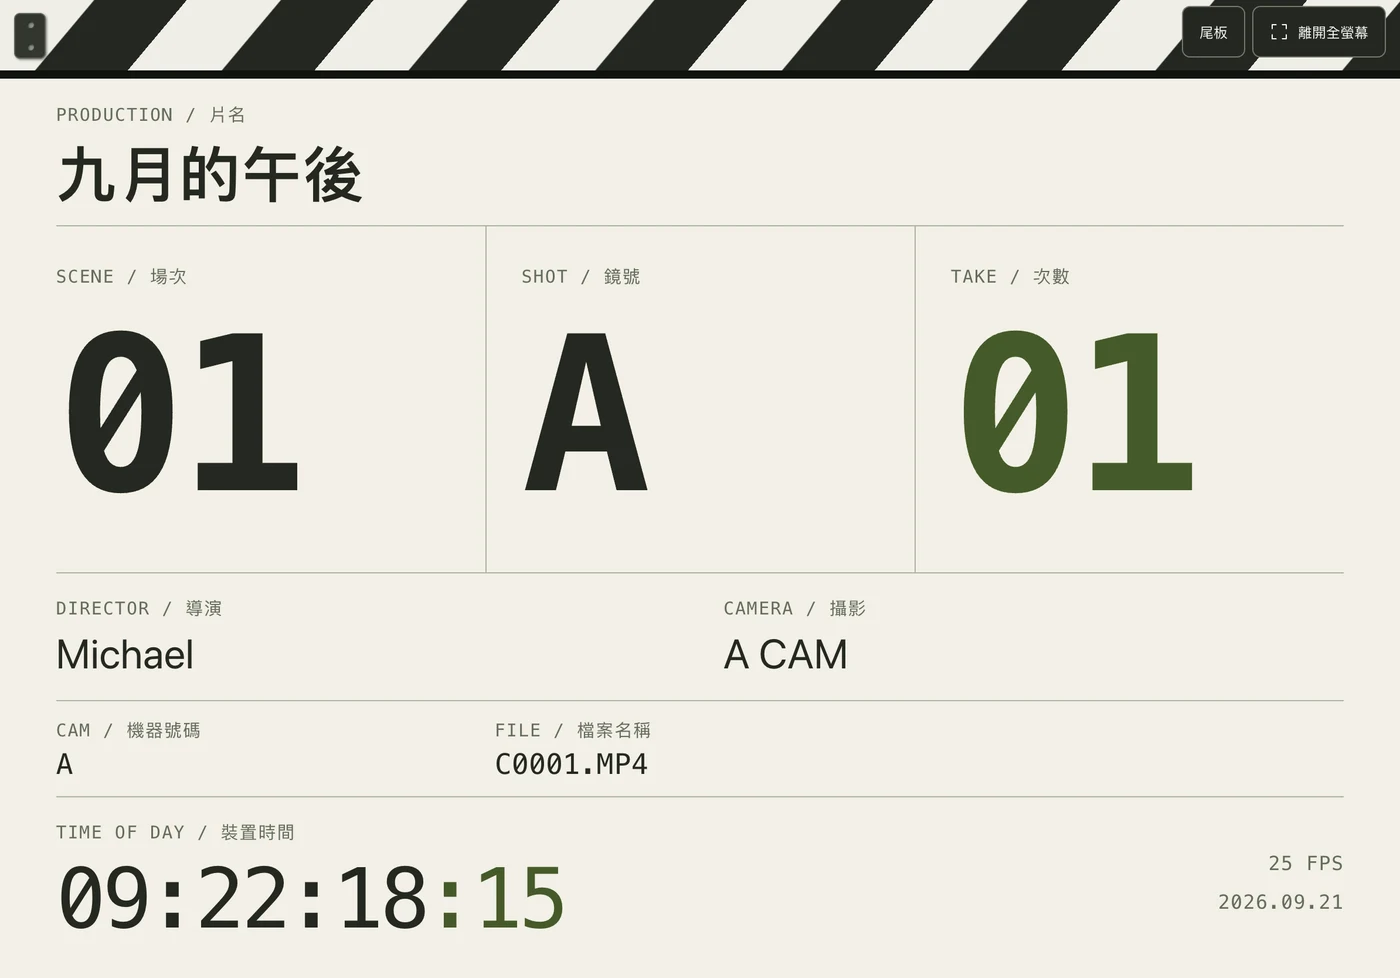
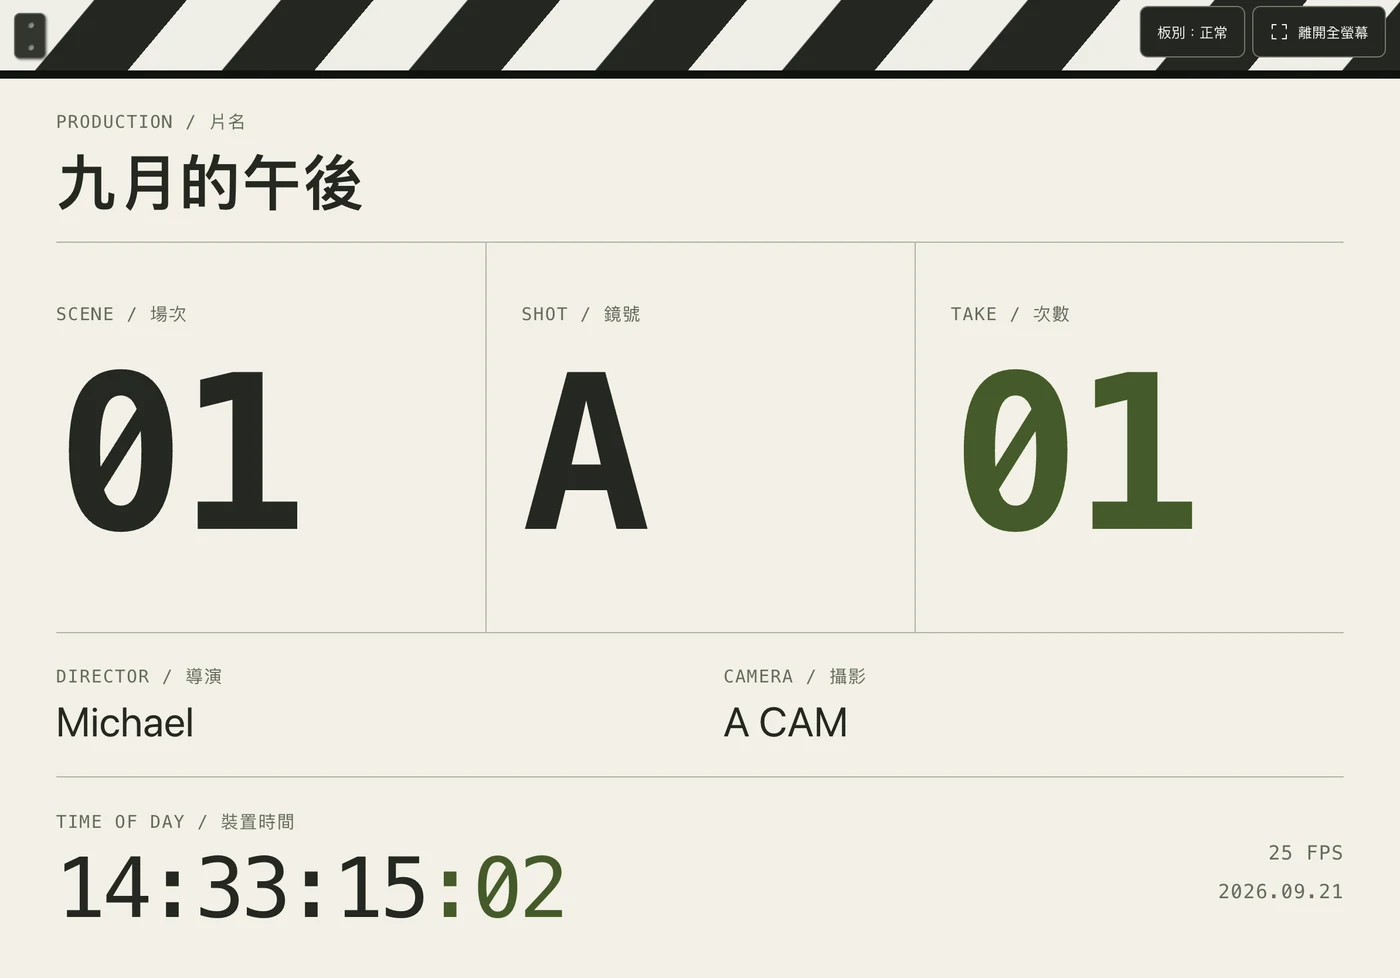
Simplify digital slate to normal and tail modes

diff --git a/themes/butterfly/source/sideProject/digitalSlate/index.html b/themes/butterfly/source/sideProject/digitalSlate/index.html
@@ -40,14 +40,13 @@
       <p id="storage-warning" class="warning" role="alert" hidden></p>
       <div class="workspace">
         <section class="slate-section" aria-label="場記板">
-          <div class="section-heading"><h2><span class="tiny-dot"></span>場記板 </h2><div class="board-toolbar"><button id="tail-toggle" class="subtle" aria-pressed="false">尾板</button><button id="focus-toggle" class="subtle" aria-pressed="false"><svg><use href="#i-expand"/></svg><span>專注模式</span></button></div></div>
+          <div class="section-heading"><h2><span class="tiny-dot"></span>場記板 </h2><div class="board-toolbar"><button id="tail-toggle" class="subtle" aria-pressed="false">板別：正常</button><button id="focus-toggle" class="subtle" aria-pressed="false"><svg><use href="#i-expand"/></svg><span>專注模式</span></button></div></div>
           <div class="slate-frame" id="slate-frame">
             <button class="clapper" id="clapper" aria-label="打板並儲存紀錄"><span class="clapper-hinge"><i></i><i></i></span><span class="clapper-caption">點此打板</span></button>
             <div class="slate-board">
               <div class="board-production"><span class="board-label">PRODUCTION / 片名</span><div id="board-production" class="production-name">未命名製作</div></div>
               <div class="board-numbers"><div><span class="board-label">SCENE / 場次</span><strong id="board-scene">01</strong></div><div><span class="board-label">SHOT / 鏡號</span><strong id="board-shot">A</strong></div><div class="take-cell"><span class="board-label">TAKE / 次數</span><strong id="board-take">01</strong></div></div>
               <div class="board-crew"><div><span class="board-label">DIRECTOR / 導演</span><span id="board-director">—</span></div><div><span class="board-label">CAMERA / 攝影</span><span id="board-camera">—</span></div></div>
-              <div class="board-media"><div><span class="board-label">CAM / 機器號碼</span><span id="board-cameraId">—</span></div><div><span class="board-label">FILE / 檔案名稱</span><span id="board-fileName">—</span></div><span id="board-tail-badge" class="tail-badge" hidden>尾板 / TAIL</span></div>
               <div class="board-bottom"><div class="timecode-wrap"><span class="board-label">TIME OF DAY / 裝置時間</span><span class="timecode" id="timecode">00:00:00<span>:00</span></span></div><div class="board-specs"><span id="board-fps">25 FPS</span><span id="board-date"></span></div></div>
               <div id="clap-overlay" class="clap-overlay" aria-hidden="true" hidden><span id="clap-overlay-text"></span></div>
             </div>
@@ -64,9 +63,7 @@
               <div class="form-row three"><label class="field">場次<input name="scene" id="scene" maxlength="12" value="01"></label><label class="field">鏡號<input name="shot" id="shot" maxlength="12" value="A"></label><label class="field">Take<input name="take" id="take" type="number" min="1" max="9999" step="1" value="1" inputmode="numeric" required></label></div>
               <div class="form-row"><label class="field">導演<input name="director" id="director" maxlength="60" placeholder="導演姓名"></label><label class="field">攝影<input name="camera" id="camera" maxlength="60" placeholder="攝影 / 機位"></label></div>
               <div class="form-row"><label class="field">影格率<select name="fps" id="fps"><option value="24">24 fps</option><option value="25" selected>25 fps</option><option value="30">30 fps</option><option value="50">50 fps</option><option value="60">60 fps</option></select></label><label class="field">打板倒數<select id="countdown"><option value="0">立即打板</option><option value="3">3 秒</option><option value="5">5 秒</option></select></label></div>
-              <div class="form-row media-fields"><label class="field">機器號碼<input name="cameraId" id="cameraId" list="camera-id-options" maxlength="30" placeholder="選擇或輸入"></label><label class="field">檔案名稱<input name="fileName" id="fileName" list="file-name-options" maxlength="180" placeholder="例如 C0001.MP4"></label></div>
-              <label class="switch-row tail-field"><span>尾板（旋轉 180°）</span><input id="isTail" name="isTail" type="checkbox" role="switch"><span class="switch-track" aria-hidden="true"></span></label>
-              <details class="camera-details"><summary>相機與拍攝參數</summary><div id="camera-settings" class="camera-parameter-grid"></div></details>
+              <label class="field slate-type-field">板別<select id="isTail" name="isTail"><option value="normal">正常</option><option value="tail">尾板（旋轉 180°）</option></select></label>
               <label class="field notes-field">備註<textarea name="notes" id="notes" maxlength="2000" rows="2" placeholder="台詞、動作或收音備註"></textarea></label>
               <div class="appearance-settings">
                 <fieldset class="color-picker"><legend>場記板顏色</legend><div class="color-options">
@@ -86,30 +83,19 @@
 
       <section class="records-section" aria-labelledby="records-heading">
         <div class="records-heading"><div><h2 id="records-heading">拍攝紀錄 <span class="record-count" id="record-count">0</span></h2></div><div class="record-actions"><button id="clear-records" class="subtle danger-text">清除全部</button><button id="import-json" class="subtle">匯入備份</button><input id="import-file" type="file" accept="application/json,.json" hidden><button id="export-json" class="subtle">備份 JSON</button><button id="export-csv" class="secondary"><svg><use href="#i-download"/></svg>匯出 CSV</button></div></div>
-        <div class="record-filters" id="record-filters" hidden>
-          <label>機器號碼<select id="filter-camera"><option value="">全部機器</option></select></label>
-          <label>檔案名稱<input id="filter-file" type="search" placeholder="搜尋檔案名稱"></label>
-          <label>板別<select id="filter-slate"><option value="all">全部</option><option value="head">頭板</option><option value="tail">尾板</option></select></label>
-          <span id="filtered-count" class="muted"></span>
-        </div>
+        <div class="record-filters" id="record-filters" hidden><label>板別<select id="filter-slate"><option value="all">全部</option><option value="normal">正常</option><option value="tail">尾板</option></select></label><span id="filtered-count" class="muted"></span></div>
         <p id="no-matching-records" class="muted" hidden>沒有符合條件的紀錄。</p>
         <div id="empty-state" class="empty-state"><span class="empty-icon"><svg><use href="#i-slate"/></svg></span><div><h3>尚無紀錄</h3><p>打板後會顯示在這裡。</p></div></div>
-        <div id="records-table-wrap" class="records-table-wrap" hidden><table><thead><tr><th>時間</th><th>製作 / 場次 / 鏡號</th><th>TAKE</th><th>機器號碼 / 檔案名稱</th><th>頭板 / 尾板</th><th>評記</th><th>備註</th><th><span class="sr-only">編輯</span></th></tr></thead><tbody id="records-list"></tbody></table></div>
+        <div id="records-table-wrap" class="records-table-wrap" hidden><table><thead><tr><th>時間</th><th>製作 / 場次 / 鏡號</th><th>TAKE</th><th>板別</th><th>評記</th><th>備註</th><th><span class="sr-only">編輯</span></th></tr></thead><tbody id="records-list"></tbody></table></div>
       </section>
     </main>
     <footer><span>SLATE <span class="footer-slash">/</span> 數位場記板</span><span>紀錄保存在此瀏覽器，拍攝後記得匯出備份。<a href="/">Michaelpig's side projects ↗</a></span></footer>
   </div>
 
-  <dialog id="help-dialog" aria-labelledby="help-title"><div class="dialog-heading"><span class="eyebrow">使用說明</span><button class="icon-button" data-close aria-label="關閉使用說明"><svg><use href="#i-close"/></svg></button></div><h2 id="help-title">在 iPad 上安裝</h2><ol class="help-steps"><li><strong>用 Safari 開啟此頁面</strong><span>第一次請保持連線，等上方顯示「可離線使用」。</span></li><li><strong>分享 → 加入主畫面</strong><span>若看到「作為網頁 App 打開」，請保持開啟，再點「加入」。</span></li><li><strong>從主畫面開啟</strong><span>先連線開啟一次，確認離線就緒並試聽音效，再開始拍攝。</span></li></ol><div class="help-note"><strong>使用注意事項</strong><p>打板會播放短音、閃白一次並保存當下資訊；自動 +1 時會清空下一 Take 的備註。可在下方紀錄補寫機器號碼、檔案名稱、相機參數與備註，或標記 OK／NG。</p><p>全螢幕只需點黑白打板條；尾板會將整塊場記板旋轉 180°，打板條也會轉到下方。清除全部紀錄需要再次確認。</p><p>若沒聽到聲音，請確認 iPad 的音量與靜音設定，並按「試聽」。螢幕恆亮依裝置支援及省電設定而定。</p><p>時間碼使用裝置時鐘，影格率為整數、非丟格；不是外部同步的專業時間碼。藍牙音訊與螢幕可能有延遲，精確對點請先實測。</p><p>紀錄僅存在目前的瀏覽器或主畫面 App，不會跨裝置同步，也不會錄音錄影。清除網站資料可能刪除紀錄，請定期備份 JSON 或匯出 CSV。</p></div><a class="help-article" href="/2026/09/21/digital-slate-guide/" target="_blank" rel="noopener">完整使用教學 ↗</a><button class="primary dialog-done" data-close>關閉 <svg><use href="#i-arrow"/></svg></button></dialog>
+  <dialog id="help-dialog" aria-labelledby="help-title"><div class="dialog-heading"><span class="eyebrow">使用說明</span><button class="icon-button" data-close aria-label="關閉使用說明"><svg><use href="#i-close"/></svg></button></div><h2 id="help-title">在 iPad 上安裝</h2><ol class="help-steps"><li><strong>用 Safari 開啟此頁面</strong><span>第一次請保持連線，等上方顯示「可離線使用」。</span></li><li><strong>分享 → 加入主畫面</strong><span>若看到「作為網頁 App 打開」，請保持開啟，再點「加入」。</span></li><li><strong>從主畫面開啟</strong><span>先連線開啟一次，確認離線就緒並試聽音效，再開始拍攝。</span></li></ol><div class="help-note"><strong>使用注意事項</strong><p>打板會播放短音、閃白一次並保存當下資訊；自動 +1 時會清空下一 Take 的備註。可在下方紀錄修改板別、補寫備註，或標記 OK／NG。</p><p>全螢幕只需點黑白打板條；尾板會將整塊場記板旋轉 180°，打板條也會轉到下方。清除全部紀錄需要再次確認。</p><p>若沒聽到聲音，請確認 iPad 的音量與靜音設定，並按「試聽」。螢幕恆亮依裝置支援及省電設定而定。</p><p>時間碼使用裝置時鐘，影格率為整數、非丟格；不是外部同步的專業時間碼。藍牙音訊與螢幕可能有延遲，精確對點請先實測。</p><p>紀錄僅存在目前的瀏覽器或主畫面 App，不會跨裝置同步，也不會錄音錄影。清除網站資料可能刪除紀錄，請定期備份 JSON 或匯出 CSV。</p></div><a class="help-article" href="/2026/09/21/digital-slate-guide/" target="_blank" rel="noopener">完整使用教學 ↗</a><button class="primary dialog-done" data-close>關閉 <svg><use href="#i-arrow"/></svg></button></dialog>
 
-  <dialog id="record-dialog" aria-labelledby="record-title"><div class="dialog-heading"><span class="eyebrow">拍攝紀錄</span><button class="icon-button" data-close aria-label="關閉紀錄"><svg><use href="#i-close"/></svg></button></div><h2 id="record-title">編輯拍攝紀錄</h2><p id="record-meta" class="muted"></p><form id="record-form">
-      <div class="form-row"><label class="field">機器號碼<input id="record-cameraId" list="camera-id-options" maxlength="30"></label><label class="field">檔案名稱<input id="record-fileName" list="file-name-options" maxlength="180"></label></div>
-      <label class="field">板別<select id="record-isTail"><option value="head">頭板</option><option value="tail">尾板（180°）</option></select></label>
-      <details class="camera-details"><summary>相機與拍攝參數</summary><div id="record-camera-settings" class="camera-parameter-grid"></div></details>
-      <label class="field">評記<select id="record-rating"><option value="unrated">未評記</option><option value="ok">OK</option><option value="ng">NG</option></select></label><label class="field">備註<textarea id="record-notes" rows="5" maxlength="2000"></textarea></label><div class="dialog-actions"><button type="button" id="delete-record" class="danger-text">刪除此筆</button><button type="submit" class="primary">儲存紀錄</button></div></form></dialog>
-  <dialog id="clear-dialog" aria-labelledby="clear-title"><h2 id="clear-title">清除全部拍攝紀錄？</h2><p>將刪除全部 <strong id="clear-count">0</strong> 筆紀錄，包含目前篩選隱藏的紀錄。此操作無法復原，請先匯出備份。</p><p class="muted">目前填寫的拍攝資訊與設定會保留。</p><div class="dialog-actions"><button class="secondary" data-close autofocus>取消</button><button id="confirm-clear" class="danger-button">確定清除全部</button></div></dialog>
-  <datalist id="camera-id-options"><option value="A"></option><option value="B"></option><option value="C"></option></datalist>
-  <datalist id="file-name-options"></datalist>
+  <dialog id="record-dialog" aria-labelledby="record-title"><div class="dialog-heading"><span class="eyebrow">拍攝紀錄</span><button class="icon-button" data-close aria-label="關閉紀錄"><svg><use href="#i-close"/></svg></button></div><h2 id="record-title">編輯拍攝紀錄</h2><p id="record-meta" class="muted"></p><form id="record-form"><label class="field">板別<select id="record-isTail"><option value="normal">正常</option><option value="tail">尾板（180°）</option></select></label><label class="field">評記<select id="record-rating"><option value="unrated">未評記</option><option value="ok">OK</option><option value="ng">NG</option></select></label><label class="field">備註<textarea id="record-notes" rows="5" maxlength="2000"></textarea></label><div class="dialog-actions"><button type="button" id="delete-record" class="danger-text">刪除此筆</button><button type="submit" class="primary">儲存紀錄</button></div></form></dialog>
+  <dialog id="clear-dialog" aria-labelledby="clear-title"><h2 id="clear-title">清除全部拍攝紀錄？</h2><p>將刪除全部 <strong id="clear-count">0</strong> 筆紀錄，包含目前篩選後未顯示的紀錄。此操作無法復原，請先匯出備份。</p><p class="muted">目前填寫的拍攝資訊與設定會保留。</p><div class="dialog-actions"><button class="secondary" data-close autofocus>取消</button><button id="confirm-clear" class="danger-button">確定清除全部</button></div></dialog>
   <div id="toast" class="toast" role="status" hidden></div>
   <noscript><div class="warning">請開啟 JavaScript，才能使用場記板、音效與拍攝紀錄。</div></noscript>
 </body>

diff --git a/themes/butterfly/source/sideProject/digitalSlate/styles.css b/themes/butterfly/source/sideProject/digitalSlate/styles.css
@@ -1825,24 +1825,13 @@ body.focus-mode .warning {
 
 .board-toolbar { display:flex; align-items:center; gap:6px; }
 #tail-toggle[aria-pressed="true"] { background:#dde5c7; color:#425b21; }
-.board-media { display:grid; grid-template-columns:minmax(0,1fr) minmax(0,2fr) auto; gap:18px; align-items:center; padding:12px 0; border-bottom:1px solid var(--board-line); }
-.board-media>div { min-width:0; }
-.board-media>div>span:last-child { display:block; margin-top:7px; font:14px var(--mono); overflow:hidden; text-overflow:ellipsis; white-space:nowrap; }
-.tail-badge { font:10px var(--mono); border:1px solid var(--board-line); padding:6px; border-radius:3px; }
 body.tail-slate .slate-frame { transform:rotate(180deg); }
 .tail-field { margin:0 0 15px; }
-.camera-details { grid-column:1/-1; margin-bottom:18px; border:1px solid var(--line); border-radius:7px; background:#fafaf5; }
-.camera-details summary { font-size:12px; font-weight:550; color:#5e6751; cursor:pointer; min-height:44px; padding:14px 12px; }
-.camera-parameter-grid { display:grid; grid-template-columns:minmax(0,1fr) minmax(0,1fr); gap:0 12px; padding:6px 12px 0; }
 .record-filters { display:flex; align-items:flex-end; flex-wrap:wrap; gap:12px; padding-bottom:16px; }
 .record-filters label { display:grid; gap:7px; font-size:12px; color:#676c5d; min-width:135px; }
-.record-filters #filter-file { min-width:200px; }
 .record-filters .muted { margin:0 0 13px auto; }
 .record-actions { flex-wrap:wrap; }
-.record-media { min-width:205px; }
-.record-media input+input { margin-top:6px; }
 #records-list input,#records-list select { font-size:12px; padding:8px; min-width:80px; }
-#records-list .record-media input { min-width:175px; }
 .danger-button { background:#a84736; color:white; padding:12px 16px; border-radius:7px; min-height:44px; font-size:14px; }
 .danger-button:hover { background:#903a2d; }
 #clear-dialog p { font-size:14px; line-height:1.8; margin:14px 0; }
@@ -1851,26 +1840,17 @@ body.focus-mode .slate-section { grid-template-rows:minmax(0,1fr); }
 body.focus-mode #clap-button { display:none; }
 body.focus-mode .clap-controls { position:absolute; z-index:5; right:16px; bottom:16px; }
 body.focus-mode .cancel-button { min-height:48px; border:1px solid #848c79; border-radius:7px; }
-body.focus-mode .slate-board { grid-template-rows:minmax(0,1fr) minmax(0,2.7fr) minmax(0,1fr) minmax(0,.75fr) minmax(0,1.25fr); }
-body.focus-mode .board-media { padding:.8dvh 0; gap:2vw; }
-body.focus-mode .board-media>div>span:last-child { margin-top:.6dvh; font-size:clamp(12px,min(2.9dvh,2.4vw),30px); }
-body.focus-mode .tail-badge { font-size:clamp(8px,1.4vw,15px); }
+body.focus-mode .slate-board { grid-template-rows:minmax(0,1fr) minmax(0,2.7fr) minmax(0,1fr) minmax(0,1.25fr); }
 body.focus-mode #tail-toggle { color:#f8f8f3; background:#242721; padding:8px 14px; border:1px solid #73786c; }
 body.focus-mode #tail-toggle[aria-pressed="true"] { color:#22251f; background:#d5ed77; }
 /* Keep the exit/tail controls beside the clapper after the whole board turns. */
 body.focus-mode.tail-slate .section-heading { top:auto; bottom:max(5px,env(safe-area-inset-bottom)); }
 body.focus-mode.tail-slate .clap-controls { bottom:auto; top:16px; }
 @media(max-width:820px) {
-  .media-fields,.tail-field { grid-column:1/-1; }
 }
 @media(max-width:480px) {
-  .board-media { gap:8px; }
-  .board-media>div>span:last-child { font-size:11px; }
-  .tail-badge { font-size:8px; padding:4px; }
   .record-filters { gap:10px; }
   .record-filters label { min-width:0; flex:1; }
-  .record-filters #filter-file { min-width:0; }
   .record-filters .muted { width:100%; margin:0; }
   #records-list input,#records-list select { font-size:16px; }
-  .camera-parameter-grid { grid-template-columns:minmax(0,1fr); }
 }

diff --git a/themes/butterfly/source/sideProject/digitalSlate/sw.js b/themes/butterfly/source/sideProject/digitalSlate/sw.js
@@ -1,5 +1,5 @@
 const CACHE_PREFIX = 'michaelpig-digital-slate-';
-const CACHE_NAME = `${CACHE_PREFIX}v3`;
+const CACHE_NAME = `${CACHE_PREFIX}v4`;
 const ASSETS = ['./', './index.html', './styles.css', './app.mjs', './model.mjs', './sounds.mjs', './manifest.webmanifest', './icons/icon.svg', './icons/icon-192.png', './icons/icon-512.png', './icons/apple-touch-icon.png'];
 const assetURLs = new Set(ASSETS.map(path => new URL(path, self.registration.scope).href));
 self.addEventListener('install', event => {

diff --git a/docs/digital-slate.md b/docs/digital-slate.md
@@ -7,20 +7,19 @@
 - 填入片名、場次、鏡號、Take、導演、攝影、整數 FPS 和備註。
 - 點上方黑白打板條、下方打板按鈕，或在非輸入狀態按空白鍵。打板會閃白、合成短音並保存當下資訊與裝置時間。
 - 可設定立即打板、3 秒或 5 秒倒數；取消或切換到背景會取消尚未完成的倒數。
-- 自動 +1 開啟時，打板畫面保留 1.1 秒供鏡頭辨識，下一 Take 會清空備註和檔案名稱。關閉時可手動維持 Take 編號。
+- 自動 +1 開啟時，打板畫面保留 1.1 秒供鏡頭辨識，下一 Take 會清空備註。關閉時可手動維持 Take 編號。
 - 在紀錄按「編輯」補寫備註、標記 OK／NG 或刪除此筆。CSV 供試算表使用；JSON 可備份及合併匯入，重複 ID 保留目前裝置的版本。匯入只合併拍攝紀錄，不覆寫目前場記板設定。
 - 場記板有黑、白、藍、綠、紅五種配色；音效可選經典喀聲、低沉木板聲、電子嗶聲，並可先試聽。配色與音效選擇會保留在裝置上。
 - 「專注模式」讓場記板填滿可見畫面，支援的瀏覽器也會請求原生全螢幕；只點黑白打板條操作，不顯示底部打板按鈕，並保留離開控制項。橫向或直向切換時跟隨畫面調整，不保留原本的頁面邊距。未提供全螢幕 API 的瀏覽器會填滿網頁可用區域；從主畫面啟動 PWA 可移除 Safari 網址列。
 - 「保持螢幕恆亮」使用 Screen Wake Lock，若被裝置拒絕會顯示目前狀態。
 
-## 相機、尾板與紀錄管理
+## 正常、尾板與紀錄管理
 
-- 每筆紀錄會保存機器號碼、素材檔名、相機類型 / 型號、解析度、錄影格式、鏡頭、焦距、光圈、快門、ISO 與白平衡。相機參數由使用者填寫，不會自動連線讀取相機。
-- 下方表格可直接修改機器號碼、檔名、頭板 / 尾板，並以這三個條件篩選；完整相機參數可從「編輯」補寫。
-- 尾板會旋轉整塊場記板 180°，包括黑白打板條；修改歷史紀錄的板別不影響目前畫面。
+- 場記板只有「正常」與「尾板」兩種板別；尾板會旋轉整塊場記板 180°，包括黑白打板條。
+- 下方表格可直接修改每筆紀錄的板別，並篩選正常或尾板。修改歷史紀錄不影響目前畫面。
 - 「清除全部」會先顯示總筆數與確認視窗，包括被篩選隱藏的紀錄。只刪除拍攝紀錄，保留目前表單與設定。
-- 舊版 JSON / localStorage 不含新欄位時會補上空白相機資料及頭板標記，原紀錄不會遺失。
-- CSV 與 JSON 匯出所有紀錄，不受表格篩選影響。
+- 舊版 JSON / localStorage 即使包含機器號碼、檔名或相機參數，仍可匯入；新版會忽略這些已取消的欄位，保留其他拍攝紀錄。
+- CSV 與 JSON 匯出所有目前使用的欄位，不受表格篩選影響。
 
 ## iPad / PWA
 
